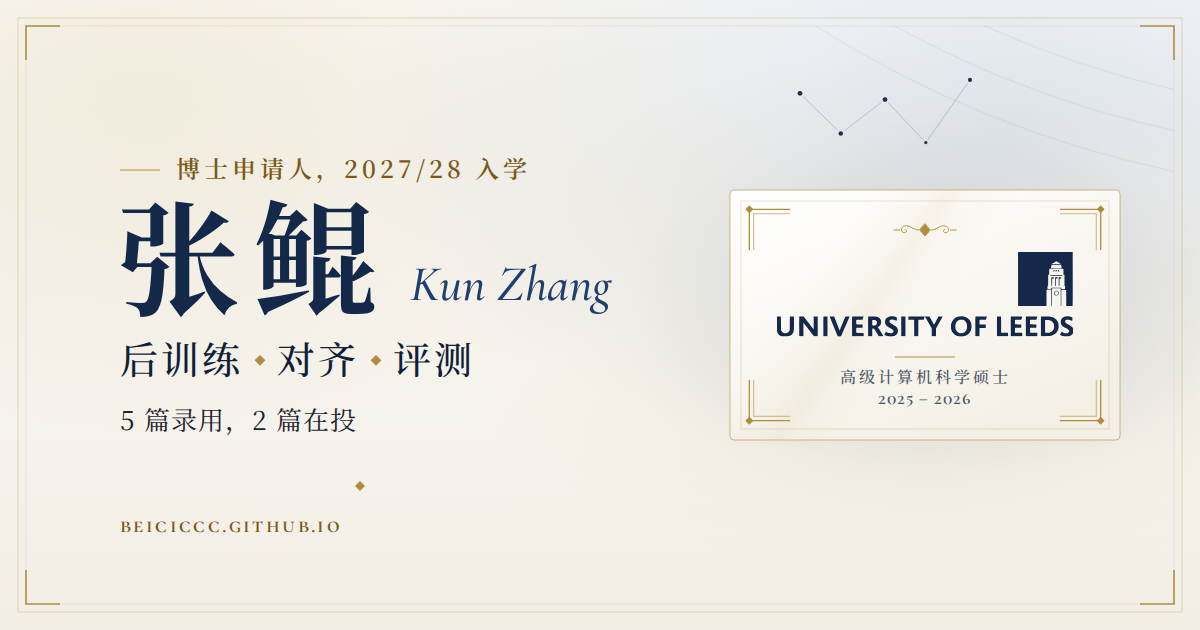
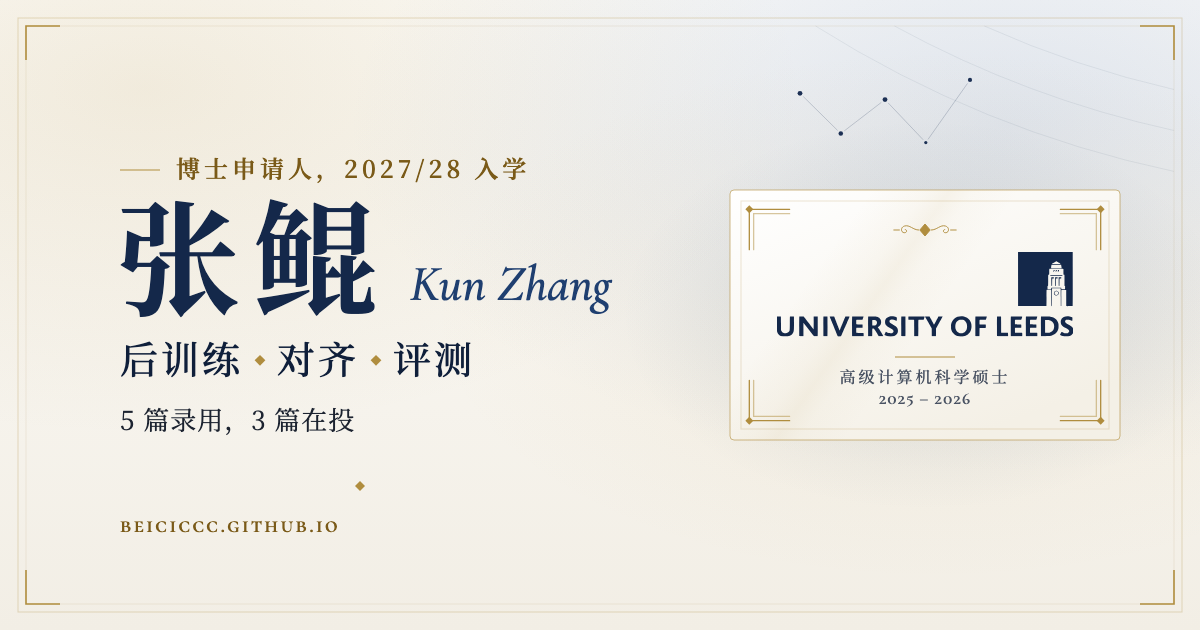
Update CV; reorder publications; three papers under review

diff --git a/version1/src/i18n/content.ts b/version1/src/i18n/content.ts
@@ -89,7 +89,7 @@ export const ui = {
     stats: {
       accepted: 'First-author papers accepted in 2026',
       oral: 'Oral presentations',
-      underReview: 'Under review · Phase 2',
+      underReview: 'Under review',
       reviewer: 'Reviewer roles, 2026',
     },
     oral: 'Oral',
@@ -131,7 +131,7 @@ export const ui = {
       // No-break after the year, a break opportunity after 年 (keep-all labels).
       accepted: '2026\u00a0年\u200b第一作者论文录用',
       oral: '口头报告',
-      underReview: '在投 · 第二阶段评审',
+      underReview: '在投',
       reviewer: '2026\u00a0年审稿服务',
     },
     oral: '口头报告',
